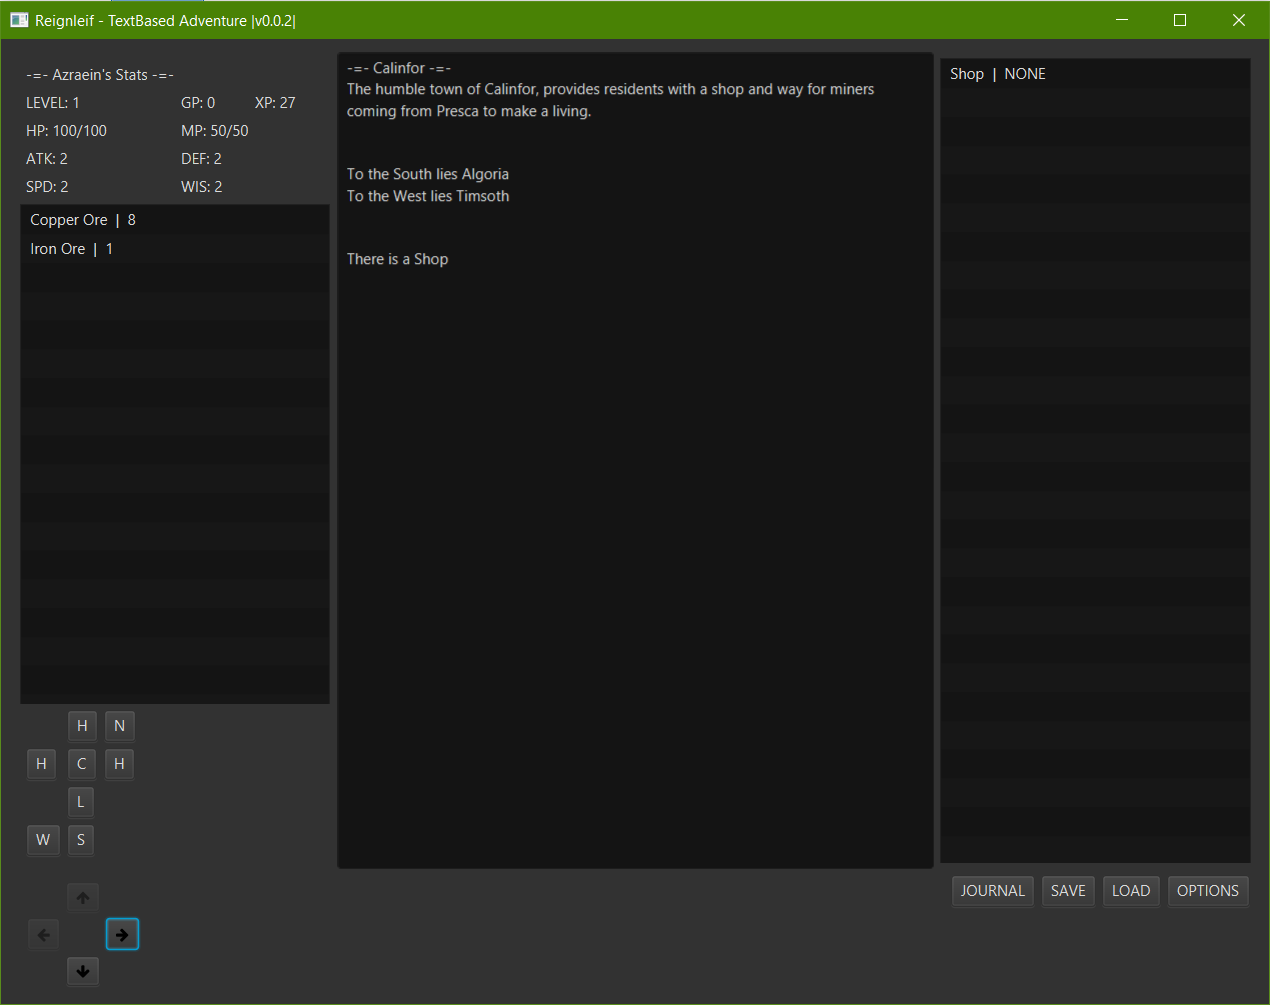
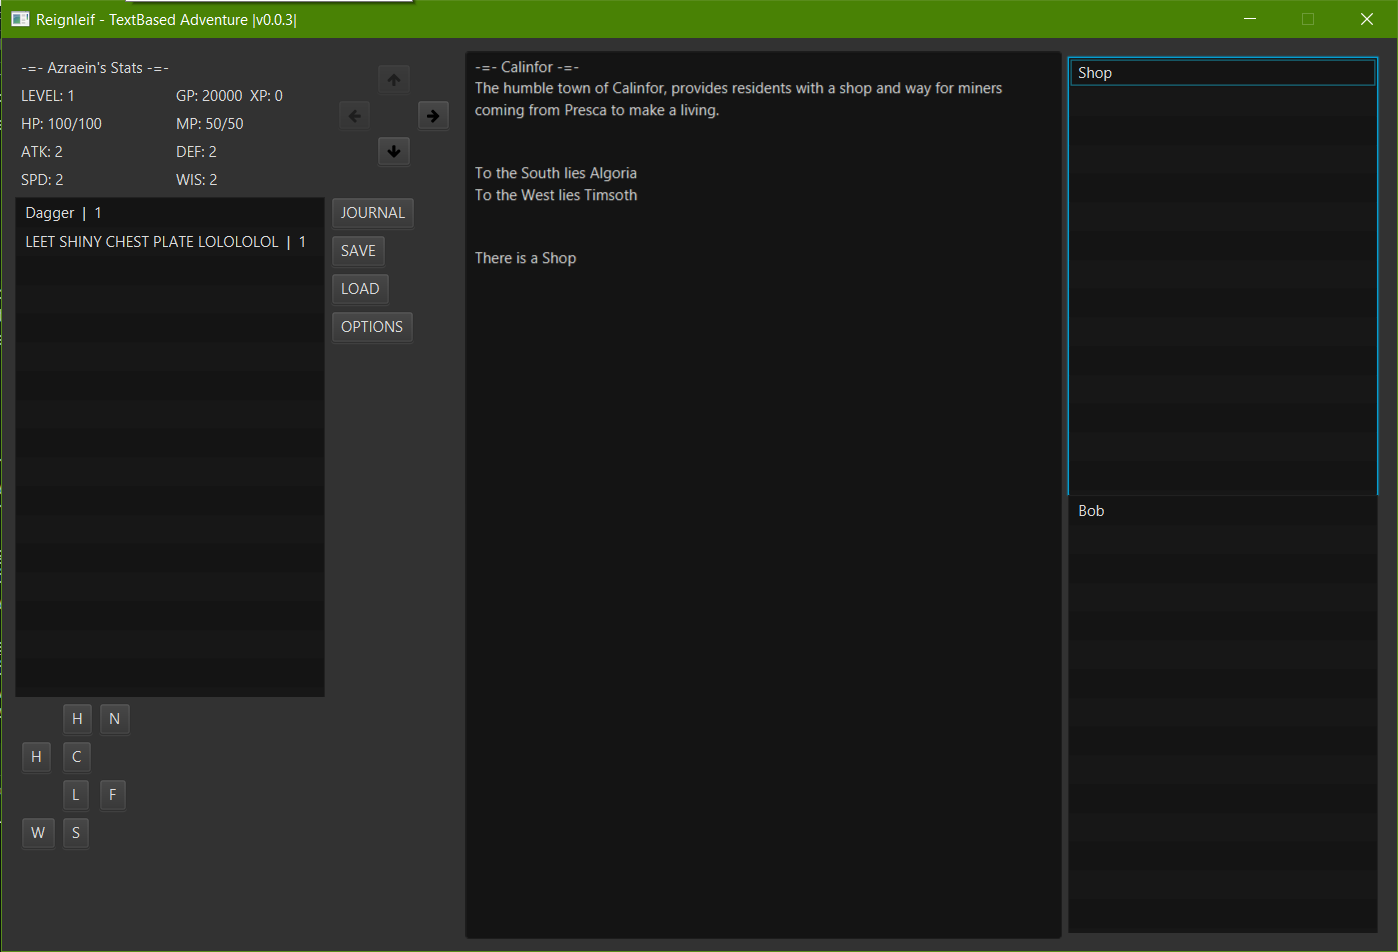
Working on Leveling Up Dialog and a few others check the readme

Changed region(s): [[0.0, 0.0, 1.0, 1.0], [0.0614, 0.9139, 0.1228, 0.9748], [0.0, 0.8225, 0.0614, 0.8834]]

diff --git a/src/main/java/captainsly/paper/entities/Player.java b/src/main/java/captainsly/paper/entities/Player.java
@@ -2,8 +2,9 @@ package captainsly.paper.entities;
 
 import captainsly.paper.entities.stats.Stat;
 import captainsly.paper.mechanics.items.equipment.Equipment;
-import captainsly.paper.mechanics.items.equipment.EquipmentStat;
 import captainsly.paper.mechanics.items.equipment.Equipment.EquipmentType;
+import captainsly.paper.mechanics.items.equipment.EquipmentStat;
+import captainsly.paper.nodes.dialogs.LevelUpDialog;
 import captainsly.paper.nodes.regions.PlayerStatRegion;
 import captainsly.paper.nodes.regions.WorldRegion;
 import captainsly.paper.utils.Utils;
@@ -36,10 +37,12 @@ public class Player extends Actor {
 	}
 
 	public void modifyXp(int xpValue) {
-		modifyActorStat(Stat.XP, xpValue);
+		super.modifyActorStat(Stat.XP, xpValue);
 		playerStats.getPlayerXpValue().setValue(Utils.writeStatString(Stat.XP, getActorStat(Stat.XP)));
+		playerStats.getPlayerXpTooltip()
+				.setText("Amount needed for next level: " + (toNextLevel() - getActorStat(Stat.XP)));
 		worldRegion.write("You were awarded with " + xpValue + " experience!\n");
-		if (getActorStat(Stat.XP) == toNextLevel()) {
+		if (getActorStat(Stat.XP) >= toNextLevel()) {
 			onLevelUp();
 		}
 	}
@@ -61,7 +64,7 @@ public class Player extends Actor {
 	public void setPlayerStatRegion(PlayerStatRegion playerStats) {
 		this.playerStats = playerStats;
 	}
-	
+
 	public void setWorldRegion(WorldRegion worldRegion) {
 		this.worldRegion = worldRegion;
 	}
@@ -71,13 +74,11 @@ public class Player extends Actor {
 		super.modifyActorGold(goldValue);
 		playerStats.getPlayerGoldValue().set("GP: " + getActorGold());
 	}
-	
+
 	@Override
 	public void modifyActorStat(Stat stat, int statIncrease) {
 		super.modifyActorStat(stat, statIncrease);
 		playerStats.getPropertyByStat(stat).set(Utils.writeStatString(stat, getActorStat(stat)));
-		if (stat.equals(Stat.XP))
-			playerStats.getPlayerXpTooltip().setText("Amount needed for next level: " + toNextLevel());
 	}
 
 	private void onLevelUp() {
@@ -86,7 +87,11 @@ public class Player extends Actor {
 		playerStats.getPlayerXpTooltip().setText("Amount needed for next level: " + toNextLevel());
 		worldRegion.write("LEVEL UP!");
 		// TODO: Show Up Level up Dialog
+		LevelUpDialog levelup = new LevelUpDialog(this);
+		levelup.showAndWait();
 
+		if (getActorStat(Stat.XP) >= toNextLevel())
+			onLevelUp();
 	}
 
 }

diff --git a/src/main/java/captainsly/paper/nodes/dialogs/LevelUpDialog.java b/src/main/java/captainsly/paper/nodes/dialogs/LevelUpDialog.java
@@ -1,0 +1,31 @@
+package captainsly.paper.nodes.dialogs;
+
+import captainsly.paper.entities.Player;
+import captainsly.paper.entities.stats.Stat;
+import javafx.scene.control.Alert;
+import javafx.scene.control.ButtonType;
+import javafx.scene.layout.GridPane;
+
+public class LevelUpDialog extends Alert {
+
+	private Player player;
+	private GridPane statGrid;
+
+	public LevelUpDialog(Player player) {
+		super(AlertType.INFORMATION);
+		this.player = player;
+		this.setTitle("Congratulations " + player.getActorName() + ", you've leveled up to Level "
+				+ player.getActorStat(Stat.LEVEL));
+		this.setHeaderText("LEVEL " + player.getActorStat(Stat.LEVEL));
+		this.setGraphic(null);
+		
+		statGrid = new GridPane();
+		
+
+		this.getButtonTypes().clear();
+		this.getButtonTypes().add(ButtonType.CLOSE);
+		this.getDialogPane().getChildren().add(statGrid);
+		
+	}
+
+}

diff --git a/src/main/java/captainsly/paper/mechanics/Registry.java b/src/main/java/captainsly/paper/mechanics/Registry.java
@@ -127,7 +127,6 @@ public class Registry {
 										itemRegistry.put(itemIds[0], genItem);
 
 									} else if (data.contentEquals("lootlist_data")) {
-										// TODO: Figure out if it's better to store the item or only it's id
 										Lootlist lootlist = null;
 
 										jsonReader.beginObject();
@@ -277,7 +276,6 @@ public class Registry {
 													break;
 												case "equipmentType":
 													equipmentType = EquipmentType.values()[jsonReader.nextInt()];
-													System.out.println(equipmentType.name());
 													break;
 												case "equipmentStats":
 													jsonReader.beginArray();

diff --git a/src/main/java/captainsly/paper/mechanics/items/equipment/weapons/Weapon.java b/src/main/java/captainsly/paper/mechanics/items/equipment/weapons/Weapon.java
@@ -1,0 +1,21 @@
+package captainsly.paper.mechanics.items.equipment.weapons;
+
+import captainsly.paper.mechanics.items.equipment.Equipment;
+
+public class Weapon extends Equipment {
+
+	public enum WeaponType {
+		SWORD, AXE, LANCE
+	}
+	
+	private WeaponType weaponType;
+	
+	public Weapon(String itemId, String itemName, String itemDesc, WeaponType weaponType) {
+		super(itemId, itemName, itemDesc, EquipmentType.WEAPON);
+	}
+
+	public WeaponType getWeaponType() {
+		return weaponType;
+	}
+	
+}

diff --git a/src/main/java/captainsly/paper/mechanics/locations/actions/MineAction.java b/src/main/java/captainsly/paper/mechanics/locations/actions/MineAction.java
@@ -64,8 +64,7 @@ public class MineAction extends Action {
 						worldRegion.getPlayer().getActorInventory().add(oreTypes.get(index), amount);
 						worldRegion.write("\nGot " + amount + " " + oreTypes.get(index).getItemName());
 
-						roll = new DiceRoller().transform(new DefaultDiceParser().parse("1d6*" + amount));
-						worldRegion.getPlayer().modifyXp(roll.getTotalRoll());
+						worldRegion.getPlayer().modifyXp(amount * 50);
 
 						worldRegion.refresh();
 						actionCounter = 4;

diff --git a/src/main/java/captainsly/paper/nodes/EquipmentButton.java b/src/main/java/captainsly/paper/nodes/EquipmentButton.java
@@ -53,6 +53,8 @@ public class EquipmentButton extends Button {
 				if (db.hasString()) {
 					Equipment equipment = Registry.equipmentRegistry.get(db.getString());
 					if (equipment.getEquipmentType() == equipmentType) {
+						//TODO: Check the equipment type, and create the corresponding type
+						
 						setEquipment(equipment);
 						success = true;
 					}

diff --git a/src/main/java/captainsly/paper/mechanics/items/equipment/armor/Armor.java b/src/main/java/captainsly/paper/mechanics/items/equipment/armor/Armor.java
@@ -1,0 +1,11 @@
+package captainsly.paper.mechanics.items.equipment.armor;
+
+import captainsly.paper.mechanics.items.equipment.Equipment;
+
+public class Armor extends Equipment {
+
+	public Armor(String itemId, String itemName, String itemDesc, EquipmentType equipmentType) {
+		super(itemId, itemName, itemDesc, equipmentType);
+	}
+
+}

diff --git a/src/main/java/captainsly/paper/entities/Actor.java b/src/main/java/captainsly/paper/entities/Actor.java
@@ -86,7 +86,7 @@ public abstract class Actor {
 	}
 
 	public int toNextLevel() {
-		return (getActorStat(Stat.LEVEL) + getActorStat(Stat.LEVEL) + 1) * 30;
+		return (getActorStat(Stat.LEVEL) + (getActorStat(Stat.LEVEL) + 1)) * 75;
 	}
 
 	public int[] getActorSkills() {

diff --git a/Readme.md b/Readme.md
@@ -42,33 +42,36 @@ Version 0.0.3
 * Added Generic ItemTransfer Alert/Dialog
 * Lots and Lots of Prototyping
 * Equipment can be equipped to the player by dragging the item from the list to the correct equipment slot, and they provide a stat boost.
+* Working on implementing a level up, takes in account leveling up repeatedly from a lot of exp gain
 	
 
 BUGS
 ====
 
-* If you equip equipment or toss an item while in the middle of an action, there is a chance that an item will be thrown into the first empty slot and create double ItemSlots
+BUG - Inv01
+* If you equip equipment or toss an item while in the middle of an action, there is a chance that an item will be thrown into the first empty slot and create double ItemSlots. (Possibliy reorder the list when an Item is taken out so that all empty slots are moved to the bottom, should prevent a double ItemSlot issue?)
 
 TODO List
 =========
 
-* Implement The Journal Alert Class -- IN PROGRESS
-* Implement The Player Creation Dialog
-* Implement The Character Class, Character Race and the Faction classes 
-* Implement The Map Class inside 
-* Implement Dragging and Dropping of Equipment from the inventory to the equipment slots
-* Implement Lua Scripting and create a basic Lua Library for the project.
-* Implement Magic System
-* Implement Stamina Requirement to move from location to location, a player has to rest before being able to move to different locations, (less spammy)
-* Work on implementing the rest of the data inside the cdb file
-* Work on Player Level Up Method, currently just raises level and does nothing with stats
-* Implement Battle Action and a battle state machine
-* Implement Quests, Crafting, Smithing.
-* Implement a tool requirement to Resource Gathering Actions
-* Finish Implementing Item/Equipment Rarity
-* Implement Saving and Loading
-* Implement Options panel 
-* Implement Inspection Panel
+* [] Some type of list sorting for the Inventories. They can be sorted any way as long as empty ItemSlots are placed at the bottom (Should fix bug Inv01)
+* [] Implement The Journal Alert Class -- IN PROGRESS
+* [] Implement The Player Creation Dialog
+* [] Implement The Character Class, Character Race and the Faction classes 
+* [] Implement The Map Class inside 
+* [x] Implement Dragging and Dropping of Equipment from the inventory to the equipment slots
+* [] Implement Lua Scripting and create a basic Lua Library for the project.
+* [] Implement Magic System
+* [] Implement Stamina Requirement to move from location to location, a player has to rest before being able to move to different locations, (less spammy)
+* [] Work on implementing the rest of the data inside the cdb file
+* [] Work on Player Level Up Method, currently just raises level and does nothing with stats -- IN PROGRESS
+* [] Implement Battle Action and a battle state machine
+* [] Implement Quests, Crafting, Smithing.
+* [] Implement a tool requirement to Resource Gathering Actions
+* [] Finish Implementing Item/Equipment Rarity
+* [] Implement Saving and Loading
+* [] Implement Options panel 
+* [] Implement Inspection Panel
 	
 Things to potentially work on
 =============================
